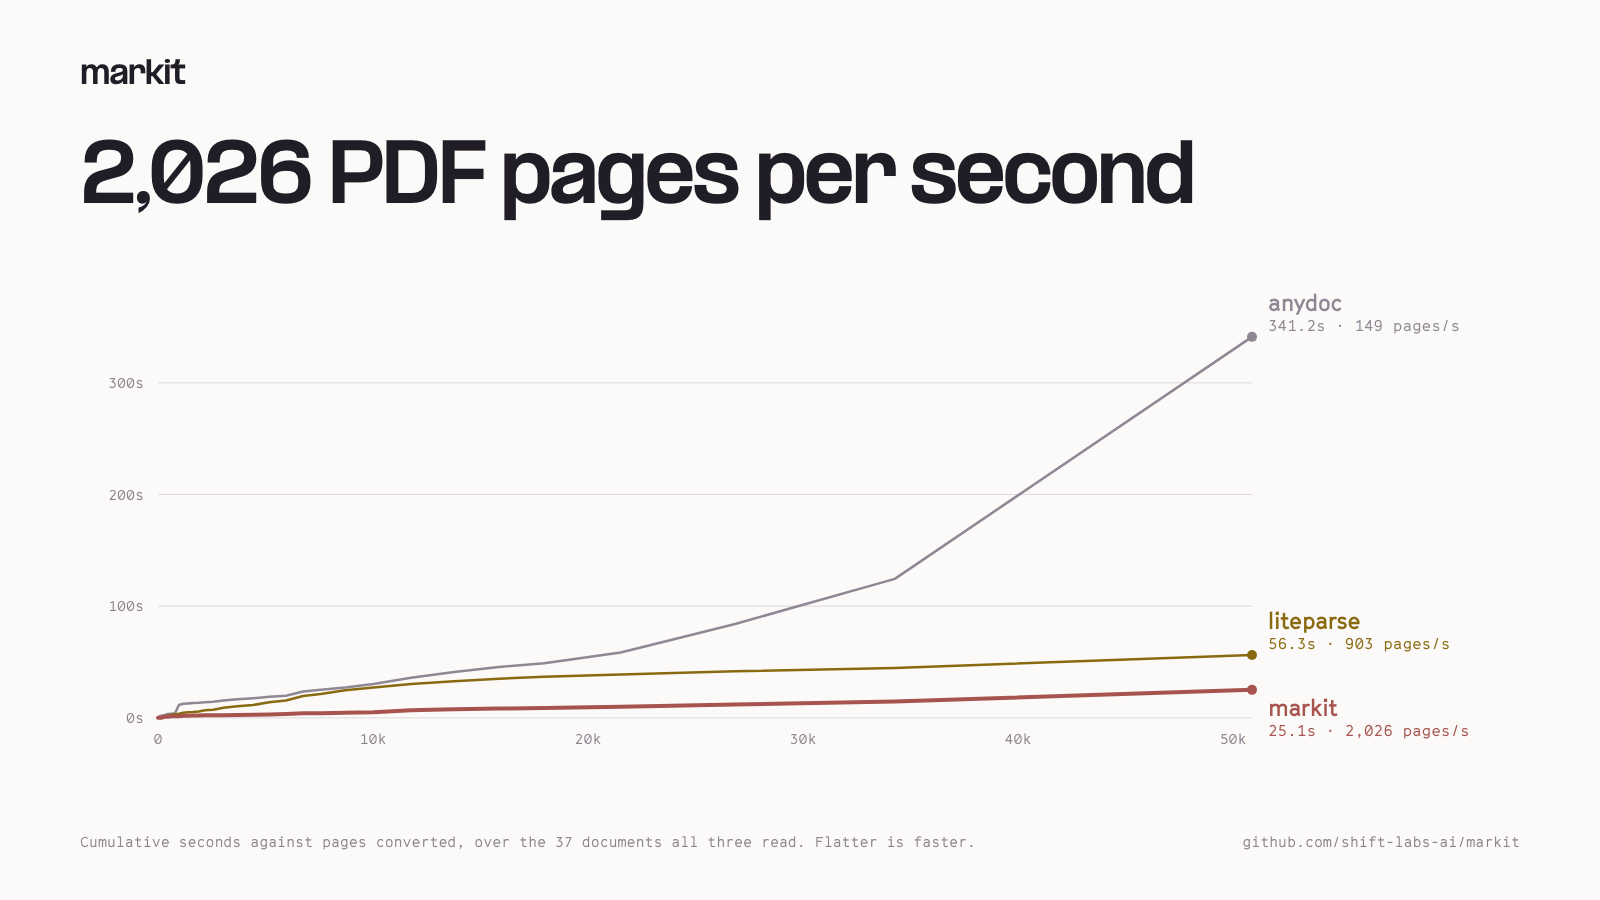
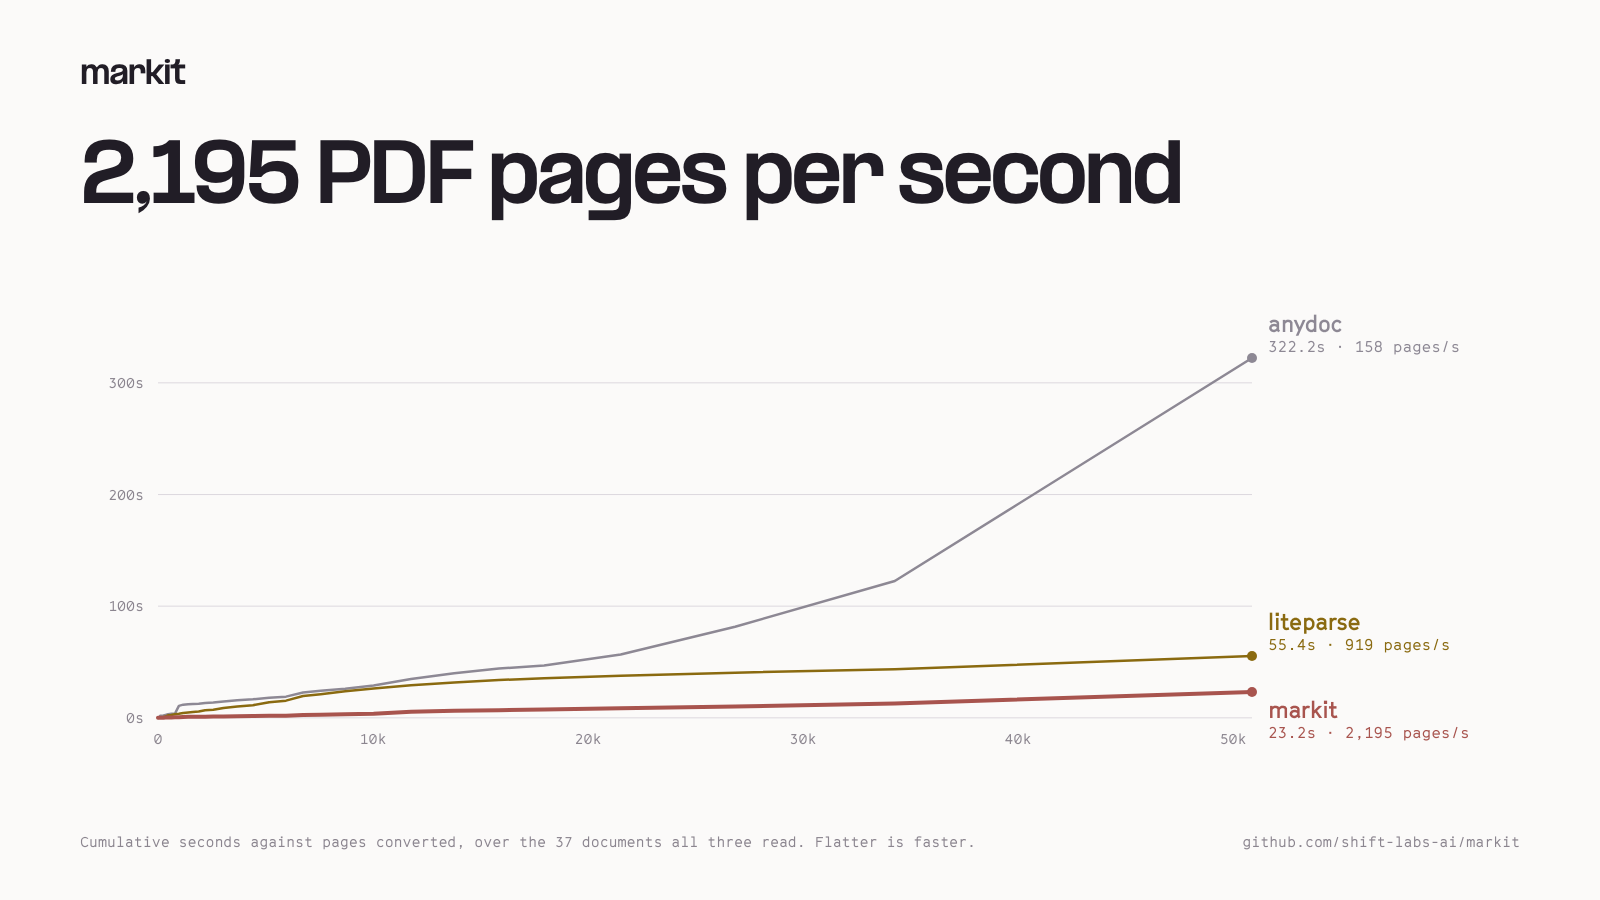
Benchmark all three parsers without image extraction
anydoc writes no image files and liteparse is given --image-mode off,
while markit ran on its default and decoded plus re-encoded every
embedded image to a temp directory. The published speed numbers were
therefore markit doing strictly more work than the tools it was compared
against, and the harness now passes --no-images so the three commands
are comparable.

Controlled three-way rerun, one warmup and three iterations:

  markit     23.19s   118.31 ms/doc   39/40
  liteparse  55.44s   736.37 ms/doc   39/40
  anydoc    322.23s   939.44 ms/doc   37/40

2.4x faster than liteparse and 13.9x faster than anydoc, and fastest on
all 37 documents every parser converted, up from 34. Quality is
unchanged at 155/155 blind anchors and 38/38 curated checks, because
image extraction only adds link or comment markers: the extracted word
sequence is identical with and without it across all 39 convertible
documents.

Corpus-wide the saving is 8%, since these documents are mostly
text-heavy manuals. It reaches 97% on a figure-heavy paper.

diff --git a/benchmark/bench.py b/benchmark/bench.py
@@ -110,8 +110,13 @@ def run_once(
 ) -> tuple[str, float]:
     with tempfile.TemporaryDirectory(prefix="markit-bench-") as temp:
         output = Path(temp) / "output.md"
+        # Every tool runs without image extraction. anydoc writes no image
+        # files and liteparse is given --image-mode off, so leaving markit
+        # on its default (which decodes and re-encodes every embedded
+        # image to a temp directory) measured it doing strictly more work
+        # than the tools it is compared against.
         if tool == "markit":
-            command = [binary, str(source), "--quiet"]
+            command = [binary, str(source), "--quiet", "--no-images"]
         elif tool == "anydoc":
             command = [binary, str(source)]
         else:

diff --git a/rust/BENCHMARKS.md b/rust/BENCHMARKS.md
@@ -6,12 +6,16 @@ Every parser here is non-OCR: it reads the text layer already inside the
 PDF rather than running optical character recognition or a vision model.
 OCR is disabled for all three.
 
-**Measured at `44a5389` on macOS 26.5 arm64, against
-`@llamaindex/liteparse@2.12.0` and `@firecrawl/anydoc@0.1.9`.** Results
+**olmOCR-bench measured at `44a5389`; shitty-pdf-bench measured at
+`5408b66` with `--no-images`.** Both on macOS 26.5 arm64 against
+`@llamaindex/liteparse@2.12.0` and `@firecrawl/anydoc@0.1.9`. Results
 are not stored in this repository; the pinned harness below reproduces
-them. Quote this commit alongside any number on this page, because a
+them. Quote the commit alongside any number on this page, because a
 rerun at a different commit legitimately produces a different one.
-Every commit since is byte-identical on shitty-pdf-bench.
+
+Image extraction never changes extracted text, verified across all 39
+convertible corpus documents, so the quality figures hold under either
+image setting.
 
 ### Official olmOCR-bench quality
 
@@ -62,16 +66,26 @@ the manifest, never any converter output, so the anchors cannot be
 tuned to a winner.
 
 Controlled end-to-end CLI timing uses one warmup and three measured
-iterations per document; each row sums the per-document medians:
+iterations per document; each row sums the per-document medians. No
+parser extracts images: anydoc writes no image files and liteparse is
+given `--image-mode off`, so markit runs with `--no-images` rather than
+its default, which would otherwise decode and re-encode every embedded
+image and measure markit doing strictly more work than the tools it is
+compared against.
 
 | Tool | Converted | Median ms/doc | Total seconds |
 |---|---:|---:|---:|
-| **markit** | 39/40 (97.5%) | **154.67** | **25.16** |
-| liteparse | 39/40 (97.5%) | 756.73 | 56.42 |
-| anydoc | 37/40 (92.5%) | 965.81 | 341.23 |
+| **markit** | 39/40 (97.5%) | **118.31** | **23.19** |
+| liteparse | 39/40 (97.5%) | 736.37 | 55.44 |
+| anydoc | 37/40 (92.5%) | 939.44 | 322.23 |
 
-markit is **2.2× faster than liteparse** and **13.6× faster than anydoc**
-on this same-machine end-to-end run.
+markit is **2.4× faster than liteparse** and **13.9× faster than anydoc**
+on this same-machine end-to-end run, and is the fastest parser on all 37
+documents every tool converted.
+
+Image extraction is 8% of markit's runtime over this corpus, which is
+dominated by text-heavy manuals, but 97% on a figure-heavy paper such as
+arxiv-gpt3 (83 images, 12 MB). Extracted text is identical either way.
 
 Caveats:
 - The olmOCR baseline check is permissive: image-placeholder-only outputs

diff --git a/README.md b/README.md
@@ -72,13 +72,14 @@ markit data.xlsx -q | napkin create "Imported Data"
 ## Benchmarks
 
 Non-OCR PDF to Markdown: parsers that read the text layer already inside a
-PDF, with no OCR and no model calls. Measured on one machine.
+PDF, with no OCR and no model calls. Measured on one machine, with image
+extraction off for every parser.
 
 | | markit | liteparse | anydoc |
 |---|---:|---:|---:|
 | olmOCR-bench score | **45.0%** | 38.8% | 31.2% |
 | shitty-pdf-bench text recovered | **100.0%** | 83.2% | 91.0% |
-| shitty-pdf-bench conversion time | **25.2s** | 56.4s | 341.2s |
+| shitty-pdf-bench conversion time | **23.2s** | 55.4s | 322.2s |
 
 olmOCR-bench is AllenAI's public benchmark. shitty-pdf-bench is ours: 40
 hash-pinned public PDFs, 50,884 pages of semiconductor manuals, standards,
